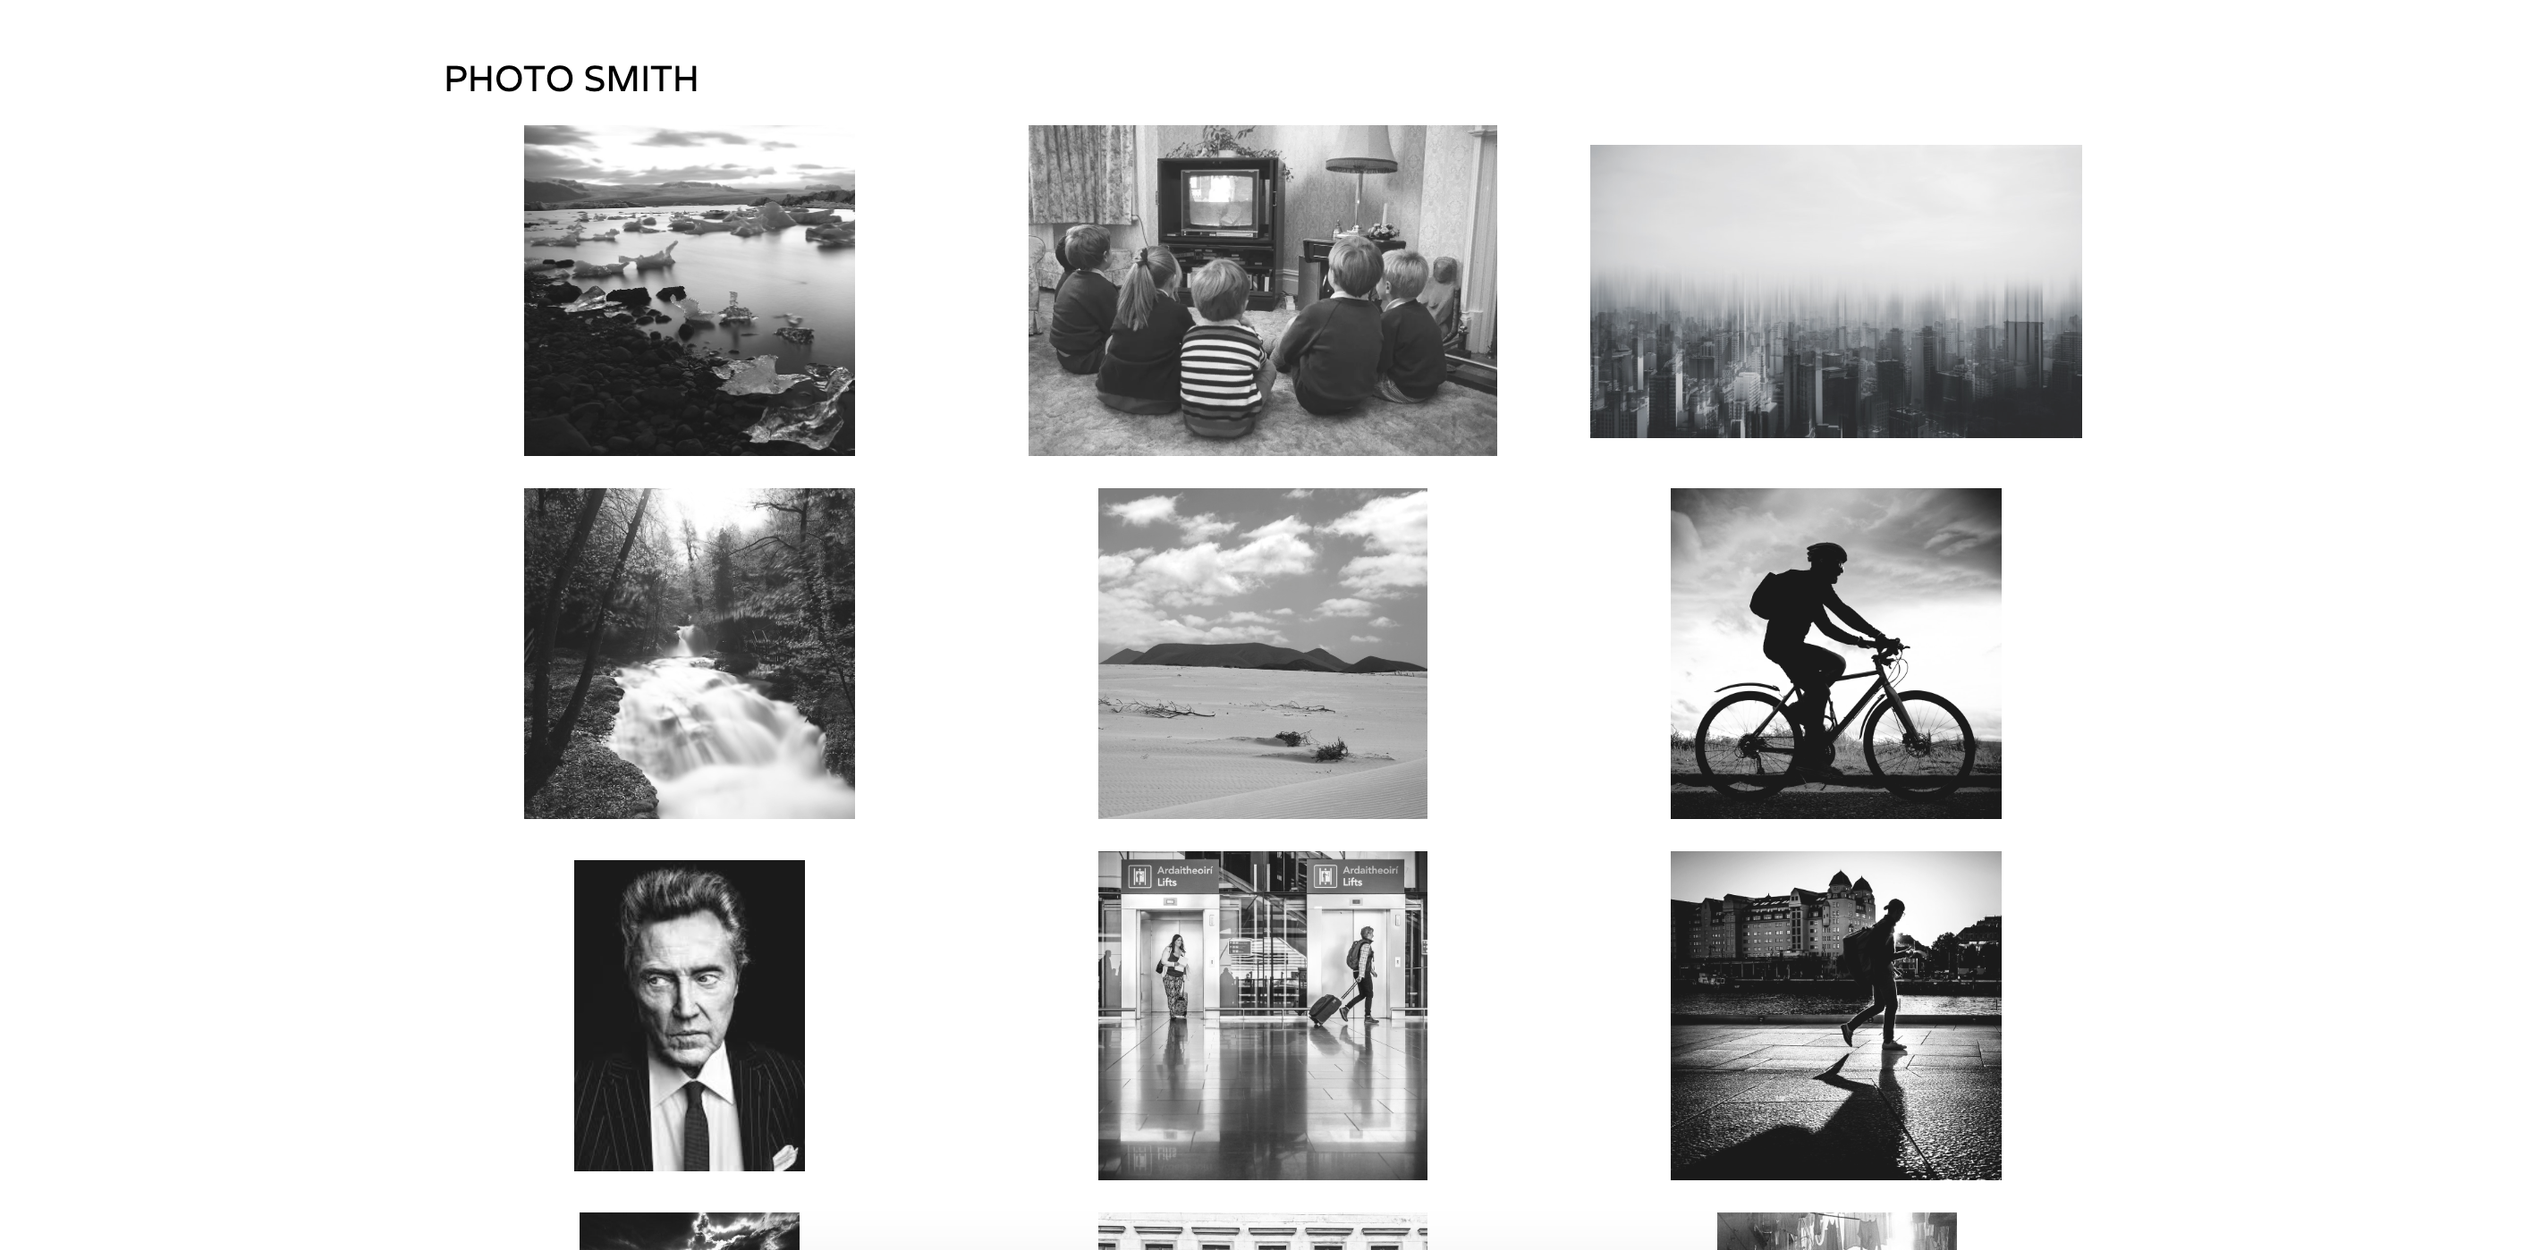
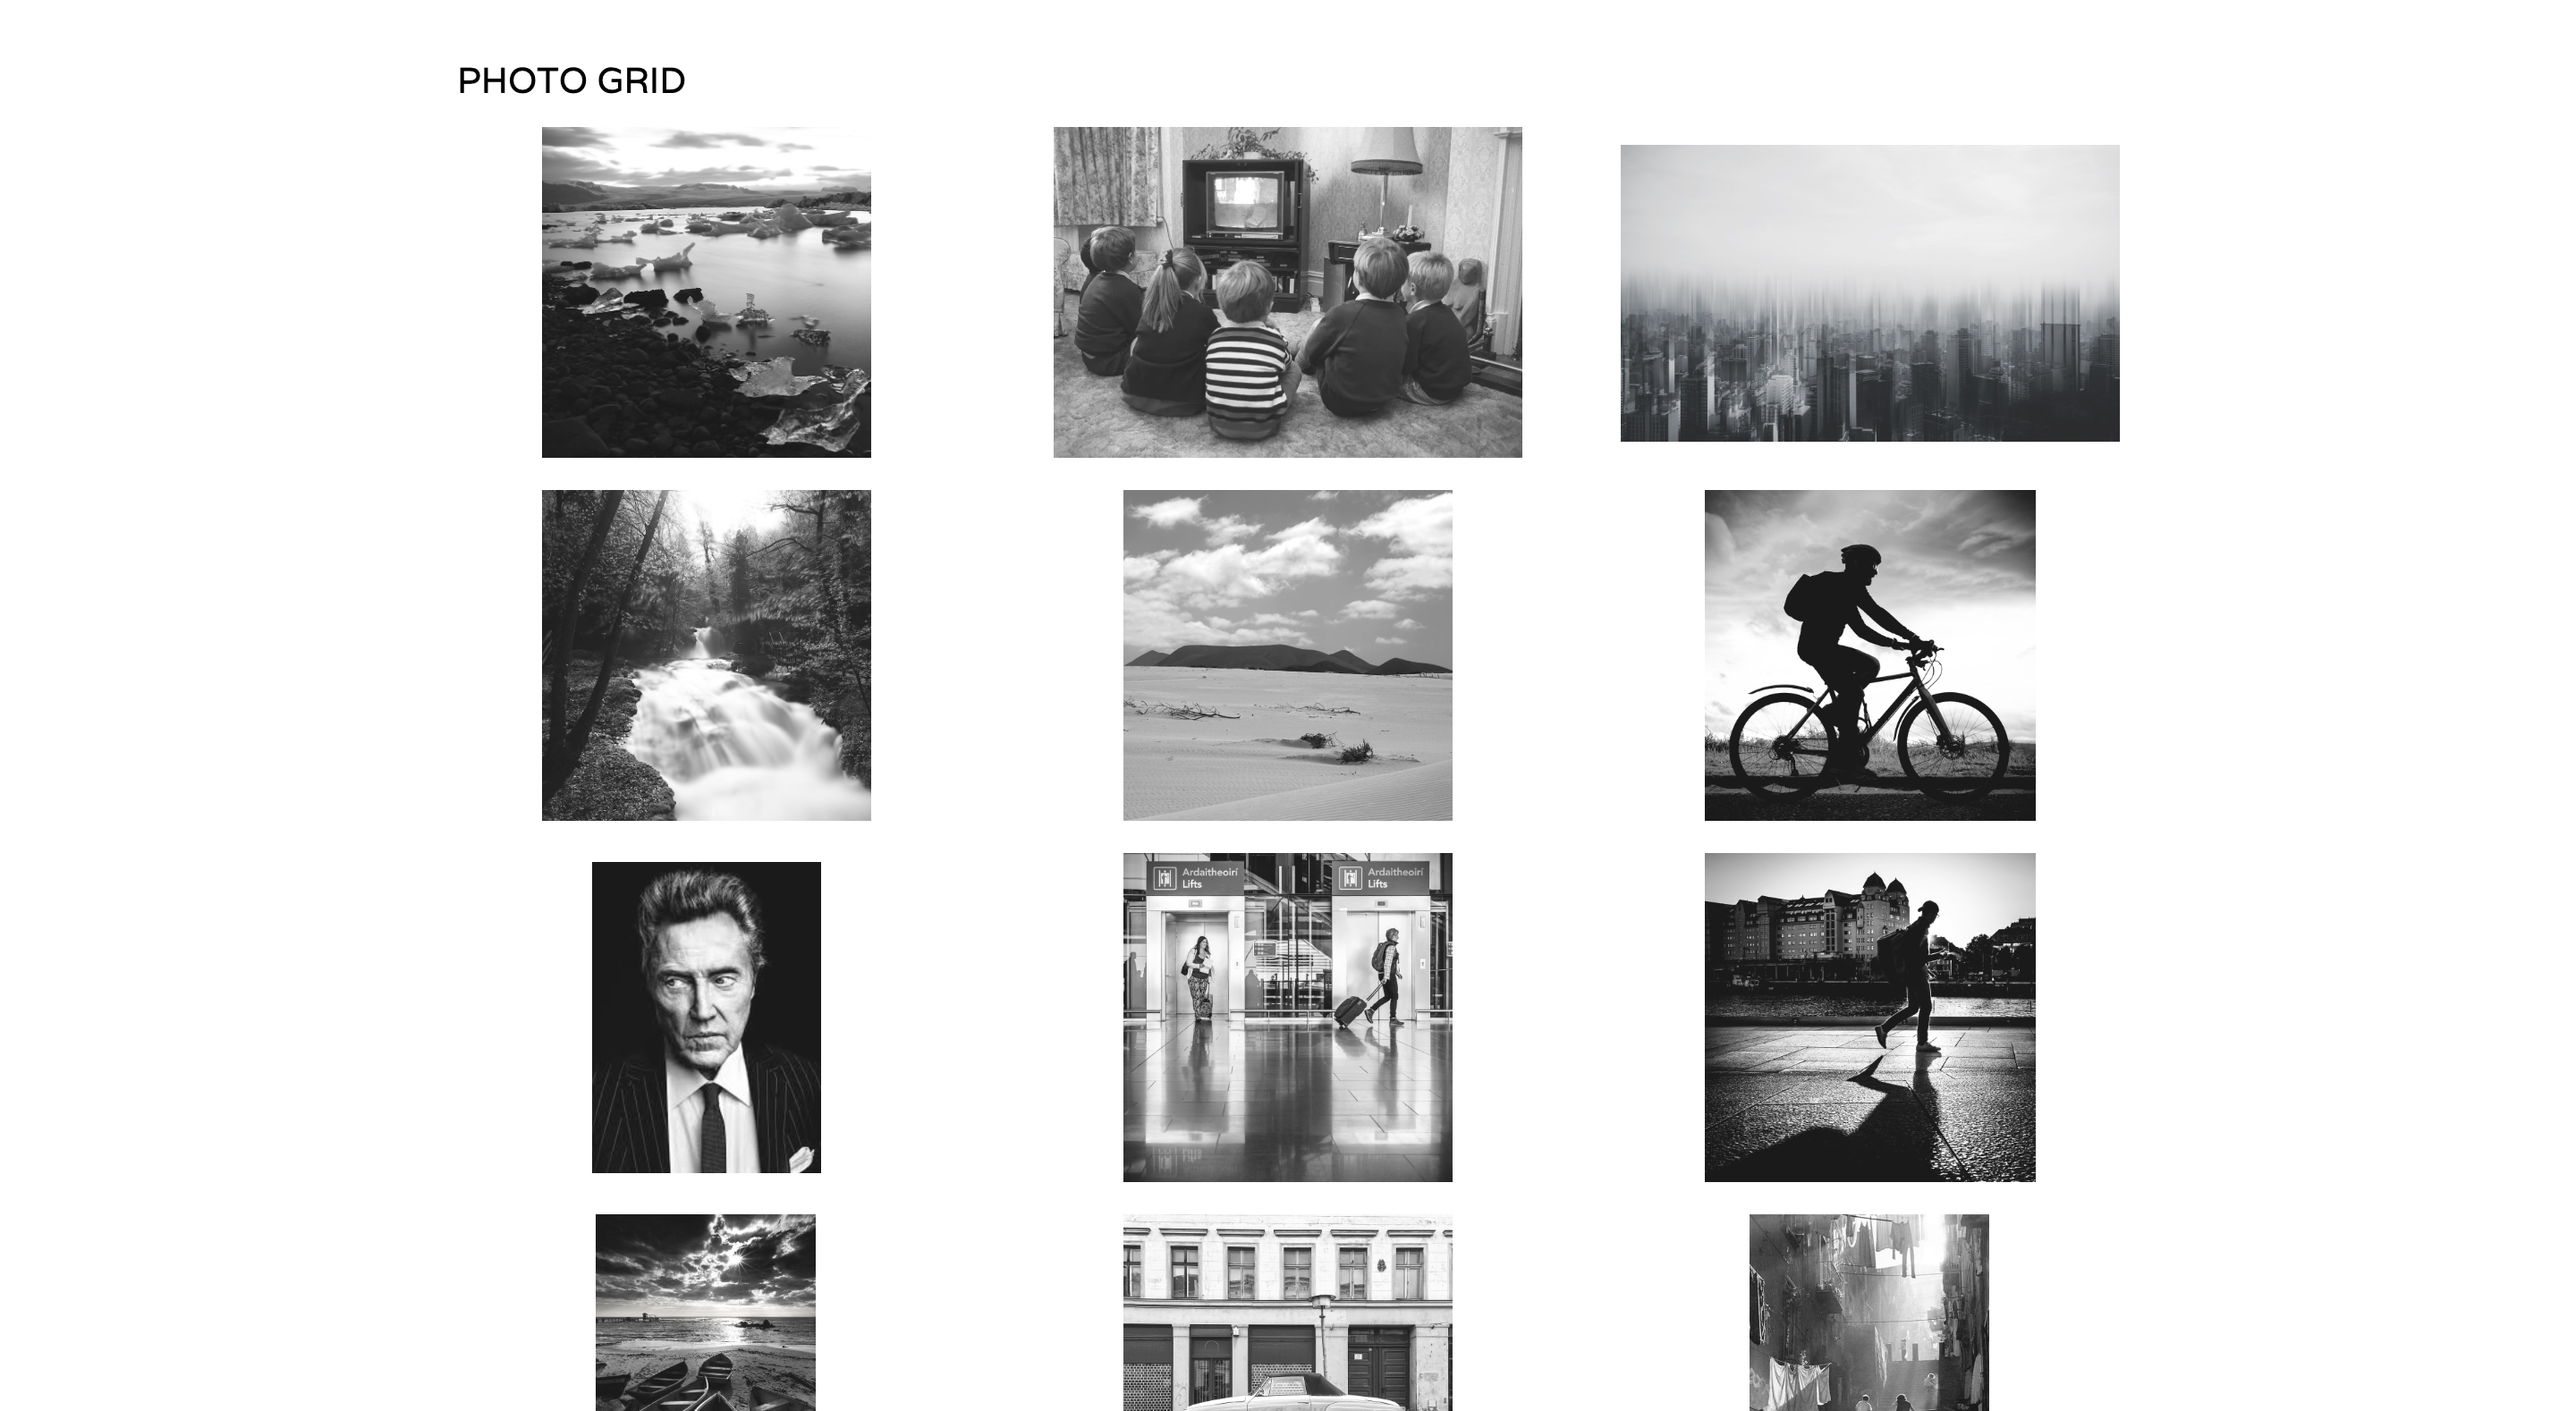
added new screenshot

diff --git a/src/Header.jsx b/src/Header.jsx
@@ -5,7 +5,7 @@ class Header extends React.Component {
   render() {
     return (
       <div id="header">
-        <h1>PHOTO SMITH</h1>
+        <h1>PHOTO GRID</h1>
       </div>
     )
   }
